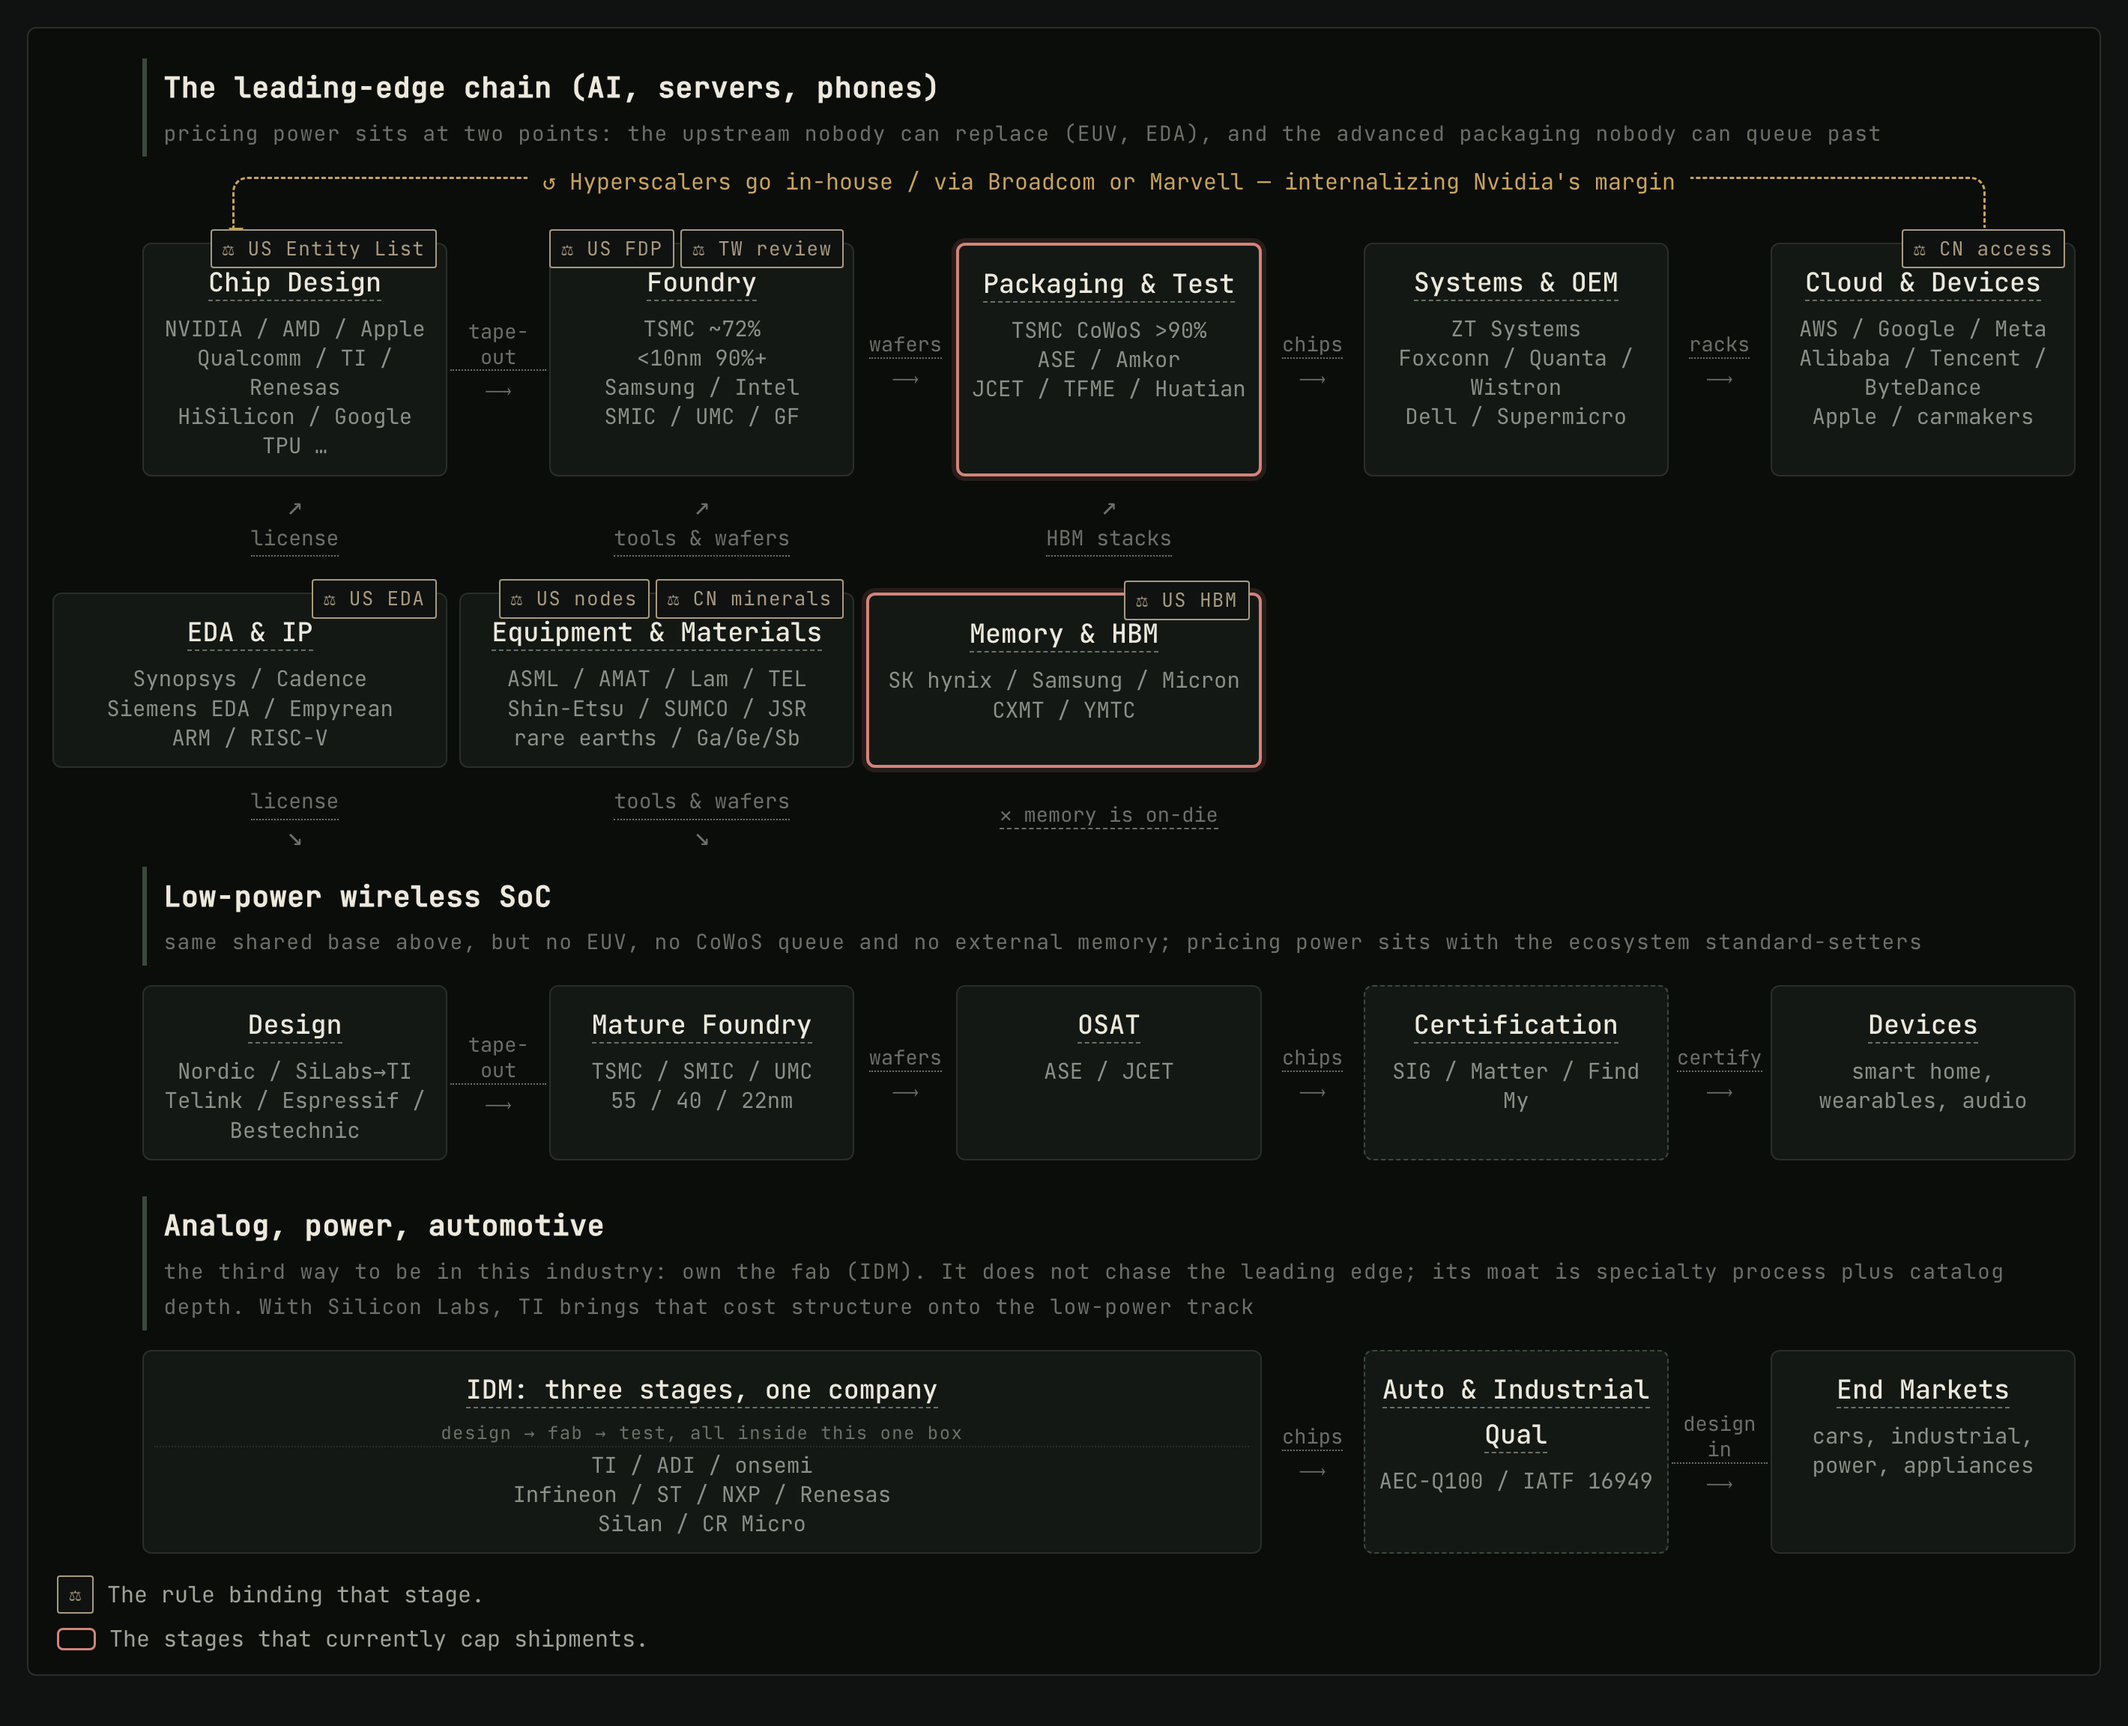
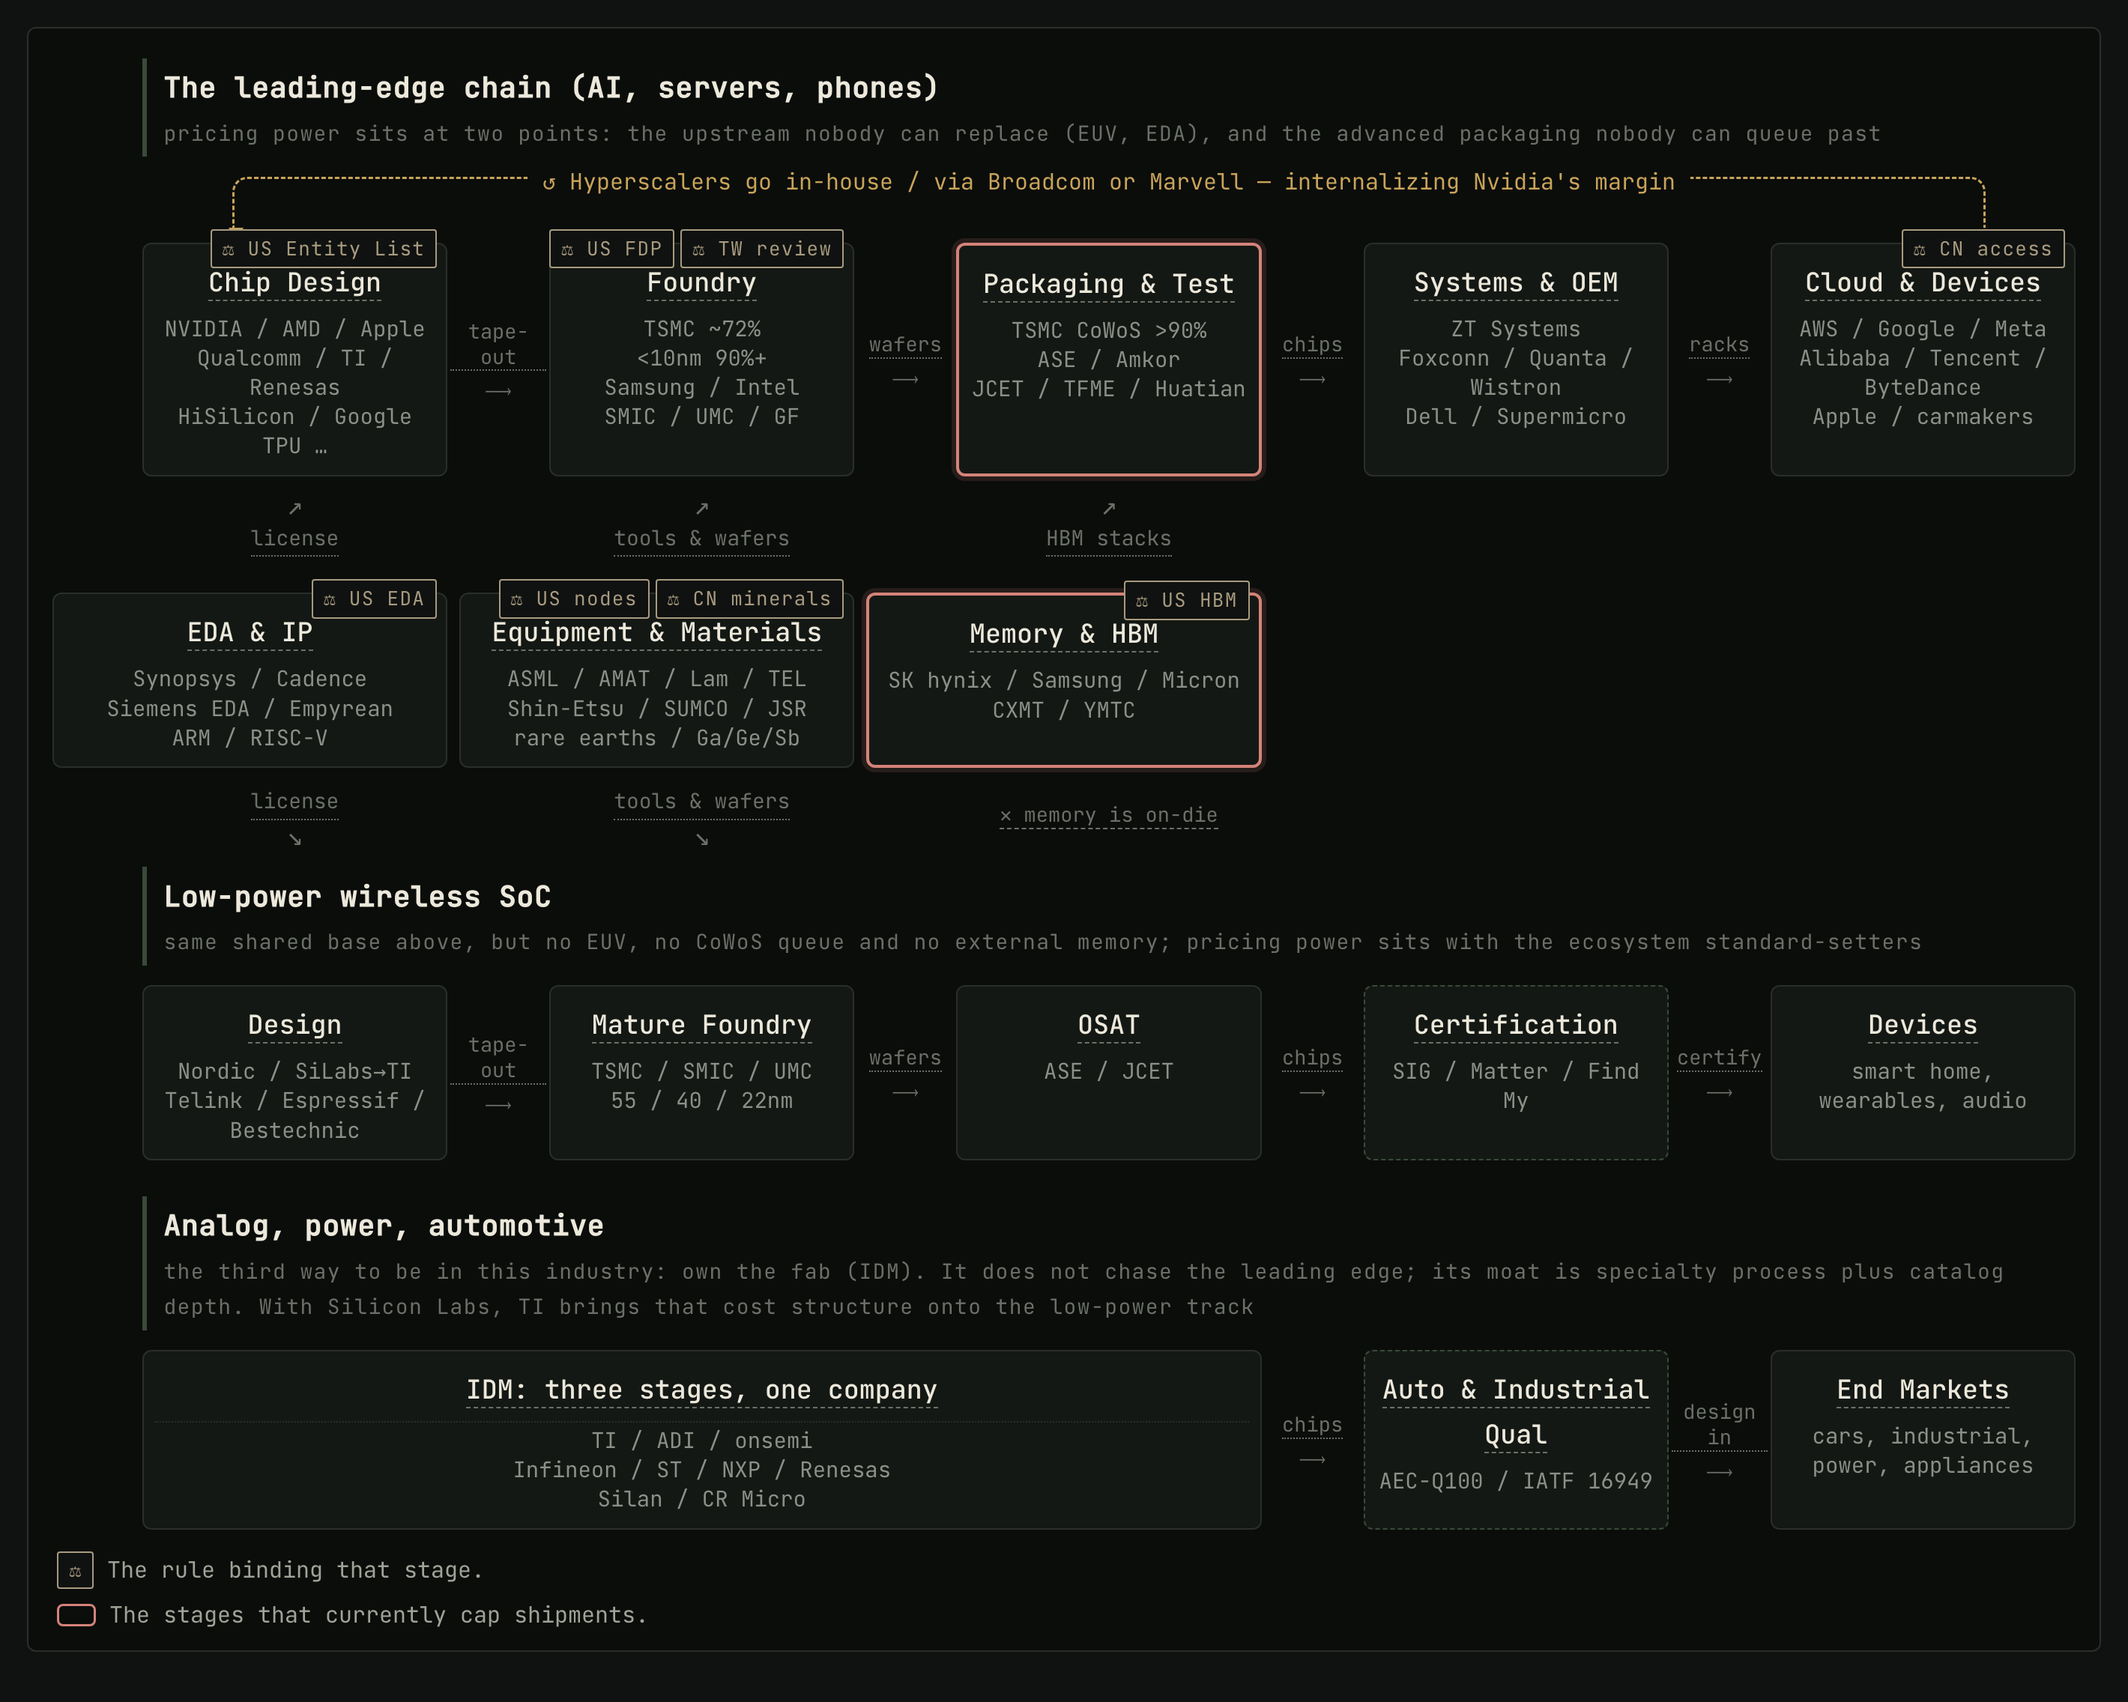
semis: the IDM box says it in written Chinese
「三格在同一家公司里」→「三个环节，一家公司」, and「格」leaves the prose
entirely — it is a cell of this drawing, not a word for a stage of the
industry. The tooltip drops 「所以画成一个横跨三格的框」, which described
the picture the reader is looking at, and the box's second line —
「设计 → 制造 → 封测，都在这个框里」— goes with it: it repeated the title
above it and then pointed at itself.

diff --git a/quartz/static/semis/value-chain-map.html b/quartz/static/semis/value-chain-map.html
@@ -413,7 +413,7 @@ h1.article-title{font-size:30px}
 <div class="fbox dashed" style="grid-row:8;grid-column:7"><span class="ft"><span class="tg-tip " tabindex="0"><span class="tg-lang zh">认证与生态</span><span class="tg-lang en">Certification</span><span class="tg-tip-box"><span class="tg-lang zh"><b>认证与生态</b>。芯片厂控制不了的一道门：Bluetooth SIG、Matter、Find My、各国无线电核准决定「什么算能用的设备」。<b>这道门是这条赛道定价权不在芯片厂手上的原因。</b></span><span class="tg-lang en"><b>Certification & ecosystems</b> — a gate the chip vendor does not control: Bluetooth SIG, Matter, Find My and radio approvals decide what counts as a working device. <b>This gate is why pricing power on this branch does not sit with chip makers.</b></span></span></span></span><span class="fp"><span class="fpl"><span class="sr sr-gl">SIG / Matter / Find My</span></span></span></div>
 <div class="fcon" style="grid-row:8;grid-column:8"><span class="tg-tip " tabindex="0"><span class="tg-lang zh">进生态</span><span class="tg-lang en">certify</span><span class="tg-tip-box"><span class="tg-lang zh">过了认证才能进 Apple / Google / Amazon 的生态。进不去，芯片再好也卖不动。</span><span class="tg-lang en">Certification is the ticket into the Apple / Google / Amazon ecosystems. Without it, a better chip still does not sell.</span></span></span><span class="ar">⟶</span></div>
 <div class="fbox" style="grid-row:8;grid-column:9"><span class="ft"><span class="tg-tip tipR " tabindex="0"><span class="tg-lang zh">终端</span><span class="tg-lang en">Devices</span><span class="tg-tip-box"><span class="tg-lang zh"><b>终端</b>。智能家居、穿戴、音频。一颗芯片几毛到几美元，一辆车、一间屋子里有几十上百颗。</span><span class="tg-lang en"><b>End devices</b> — smart home, wearables, audio. Cents to dollars per chip; dozens to hundreds per car or household.</span></span></span></span><span class="fp"><span class="tg-lang zh">智能家居、穿戴、音频</span><span class="tg-lang en">smart home, wearables, audio</span></span></div><div class="flane" style="grid-row:9;grid-column:1/-1;margin-top:14px"><span class="tg-lang zh"><span class="ln">模拟、功率、车规</span>第三种路径：自建产线（IDM）。不追先进节点，护城河是特色工艺加料号厚度；TI 收购 Silicon Labs 之后，这条线的成本结构被带进了低功耗赛道</span><span class="tg-lang en"><span class="ln">Analog, power, automotive</span>the third way to be in this industry: own the fab (IDM). It does not chase the leading edge; its moat is specialty process plus catalog depth. With Silicon Labs, TI brings that cost structure onto the low-power track</span></div>
-<div class="fbox" style="grid-row:10;grid-column:1/6"><span class="ft"><span class="tg-tip tipL " tabindex="0"><span class="tg-lang zh">IDM：三格在同一家公司里</span><span class="tg-lang en">IDM: three stages, one company</span><span class="tg-tip-box"><span class="tg-lang zh"><b>IDM：设计、制造、封测在同一家公司里。</b>上面两条线是接力——设计一家、制造一家、封测一家；这一条将三格并入同一家公司，所以画成一个横跨三格的框。<b>值得如此的理由：</b>模拟、功率、车规产品的性能取决于工艺（BCD、SiC/GaN、嵌入式非易失存储），将制造外包即让渡核心；产能自主调度；旧产线折旧摊销完毕后成本极低。<b>代价：</b>一座产线数十至上百亿美元，产能空转即为亏损，工艺落后则产品随之落后。<b>与低功耗赛道的关联：</b>TI 有约 8 万个料号、10 万家客户，2026 年 2 月以约 75 亿美元收购 Silicon Labs——它带进低功耗赛道的不是新技术，是自家已折旧完的 300mm 产线的成本结构。</span><span class="tg-lang en"><b>IDM: design, fab and test inside one company.</b> The two bands above are a relay — one firm designs, another fabricates, a third packages. This band swallows all three, which is why it is drawn as a single box spanning three slots. <b>Why it pays:</b> in analog, power and automotive parts the performance lives in the process (BCD, SiC/GaN, embedded non-volatile memory), so outsourcing manufacturing means handing over the core; you allocate your own capacity; and a depreciated line costs almost nothing to run. <b>What it costs:</b> tens of billions per fab, idle capacity is a straight loss, and a process that falls behind drags the products with it. <b>Why it matters here:</b> TI carries ~80,000 catalog parts and ~100,000 customers, and agreed in February 2026 to buy Silicon Labs for ~$7.5bn — what it brings onto the low-power track is not new technology but the cost structure of its own written-down 300mm lines.</span></span></span></span><span class="fp"><span class="fsub"><span class="tg-lang zh">设计 → 制造 → 封测，都在这个框里</span><span class="tg-lang en">design → fab → test, all inside this one box</span></span><span class="fpl"><span class="sr sr-us">TI</span> / <span class="sr sr-us">ADI</span> / <span class="sr sr-us"><span class="tg-lang zh">安森美</span><span class="tg-lang en">onsemi</span></span></span><span class="fpl"><span class="sr sr-eu"><span class="tg-lang zh">英飞凌</span><span class="tg-lang en">Infineon</span></span> / <span class="sr sr-eu"><span class="tg-lang zh">意法</span><span class="tg-lang en">ST</span></span> / <span class="sr sr-eu"><span class="tg-lang zh">恩智浦</span><span class="tg-lang en">NXP</span></span> / <span class="sr sr-jp"><span class="tg-lang zh">瑞萨</span><span class="tg-lang en">Renesas</span></span></span><span class="fpl"><span class="sr sr-cn"><span class="tg-lang zh">士兰微</span><span class="tg-lang en">Silan</span></span> / <span class="sr sr-cn"><span class="tg-lang zh">华润微</span><span class="tg-lang en">CR Micro</span></span></span></span></div>
+<div class="fbox" style="grid-row:10;grid-column:1/6"><span class="ft"><span class="tg-tip tipL " tabindex="0"><span class="tg-lang zh">IDM：三个环节，一家公司</span><span class="tg-lang en">IDM: three stages, one company</span><span class="tg-tip-box"><span class="tg-lang zh"><b>IDM：设计、制造、封测同属一家公司。</b>上面两条线是接力——设计一家、制造一家、封测一家；这一条将三者并入同一家公司。<b>值得如此的理由：</b>模拟、功率、车规产品的性能取决于工艺（BCD、SiC/GaN、嵌入式非易失存储），将制造外包即让渡核心；产能自主调度；旧产线折旧摊销完毕后成本极低。<b>代价：</b>一座产线数十至上百亿美元，产能空转即为亏损，工艺落后则产品随之落后。<b>与低功耗赛道的关联：</b>TI 有约 8 万个料号、10 万家客户，2026 年 2 月以约 75 亿美元收购 Silicon Labs——它为低功耗赛道带来的不是新技术，而是自有 300mm 产线折旧完毕后的成本结构。</span><span class="tg-lang en"><b>IDM: design, fab and test inside one company.</b> The two bands above are a relay — one firm designs, another fabricates, a third packages. This band swallows all three, which is why it is drawn as a single box spanning three slots. <b>Why it pays:</b> in analog, power and automotive parts the performance lives in the process (BCD, SiC/GaN, embedded non-volatile memory), so outsourcing manufacturing means handing over the core; you allocate your own capacity; and a depreciated line costs almost nothing to run. <b>What it costs:</b> tens of billions per fab, idle capacity is a straight loss, and a process that falls behind drags the products with it. <b>Why it matters here:</b> TI carries ~80,000 catalog parts and ~100,000 customers, and agreed in February 2026 to buy Silicon Labs for ~$7.5bn — what it brings onto the low-power track is not new technology but the cost structure of its own written-down 300mm lines.</span></span></span></span><span class="fp"><span class="fsub"></span><span class="fpl"><span class="sr sr-us">TI</span> / <span class="sr sr-us">ADI</span> / <span class="sr sr-us"><span class="tg-lang zh">安森美</span><span class="tg-lang en">onsemi</span></span></span><span class="fpl"><span class="sr sr-eu"><span class="tg-lang zh">英飞凌</span><span class="tg-lang en">Infineon</span></span> / <span class="sr sr-eu"><span class="tg-lang zh">意法</span><span class="tg-lang en">ST</span></span> / <span class="sr sr-eu"><span class="tg-lang zh">恩智浦</span><span class="tg-lang en">NXP</span></span> / <span class="sr sr-jp"><span class="tg-lang zh">瑞萨</span><span class="tg-lang en">Renesas</span></span></span><span class="fpl"><span class="sr sr-cn"><span class="tg-lang zh">士兰微</span><span class="tg-lang en">Silan</span></span> / <span class="sr sr-cn"><span class="tg-lang zh">华润微</span><span class="tg-lang en">CR Micro</span></span></span></span></div>
 <div class="fcon" style="grid-row:10;grid-column:6"><span class="tg-tip  " tabindex="0"><span class="tg-lang zh">芯片</span><span class="tg-lang en">chips</span><span class="tg-tip-box"><span class="tg-lang zh">出自自有产线的成品——中间没有第三方代工厂，也没有 OSAT。</span><span class="tg-lang en">Parts out of the company's own fabs — no third-party foundry, no OSAT in between.</span></span></span><span class="ar">⟶</span></div>
 <div class="fbox dashed" style="grid-row:10;grid-column:7"><span class="ft"><span class="tg-tip  " tabindex="0"><span class="tg-lang zh">车规与工业认证</span><span class="tg-lang en">Auto &amp; Industrial Qual</span><span class="tg-tip-box"><span class="tg-lang zh"><b>另一道芯片厂控制不了的门</b>。AEC-Q100 器件认证、IATF 16949 体系、PPAP 与零缺陷要求，外加 10–15 年供货承诺。它和低功耗那条线的 Matter、Find My 是同一类东西：认证资产不产生技术优势，但需以时间与资金累积，且换供应商的成本高到客户几乎不换——这正是这条线毛利稳定、格局多年不变的原因。</span><span class="tg-lang en"><b>Another gate the chip maker does not control.</b> AEC-Q100 part qualification, IATF 16949 systems, PPAP and zero-defect expectations, plus 10–15 year supply commitments. It is the same species of asset as Matter and Find My on the low-power band: certification confers no technical edge, costs years and money to accumulate, and raises switching costs so far that customers rarely move — which is why margins here are steady and the pecking order barely changes.</span></span></span></span><span class="fp"><span class="fpl">AEC-Q100 / IATF 16949</span></span></div>
 <div class="fcon" style="grid-row:10;grid-column:8"><span class="tg-tip  " tabindex="0"><span class="tg-lang zh">上车</span><span class="tg-lang en">design in</span><span class="tg-tip-box"><span class="tg-lang zh">过了认证才进整车与工业设备的物料清单（BOM）。一旦进入即持续十年，这是这条线最有价值的资产。</span><span class="tg-lang en">Only a qualified part enters a vehicle or industrial BOM — and once in, it stays for a decade. That is the most valuable thing on this band.</span></span></span><span class="ar">⟶</span></div>
